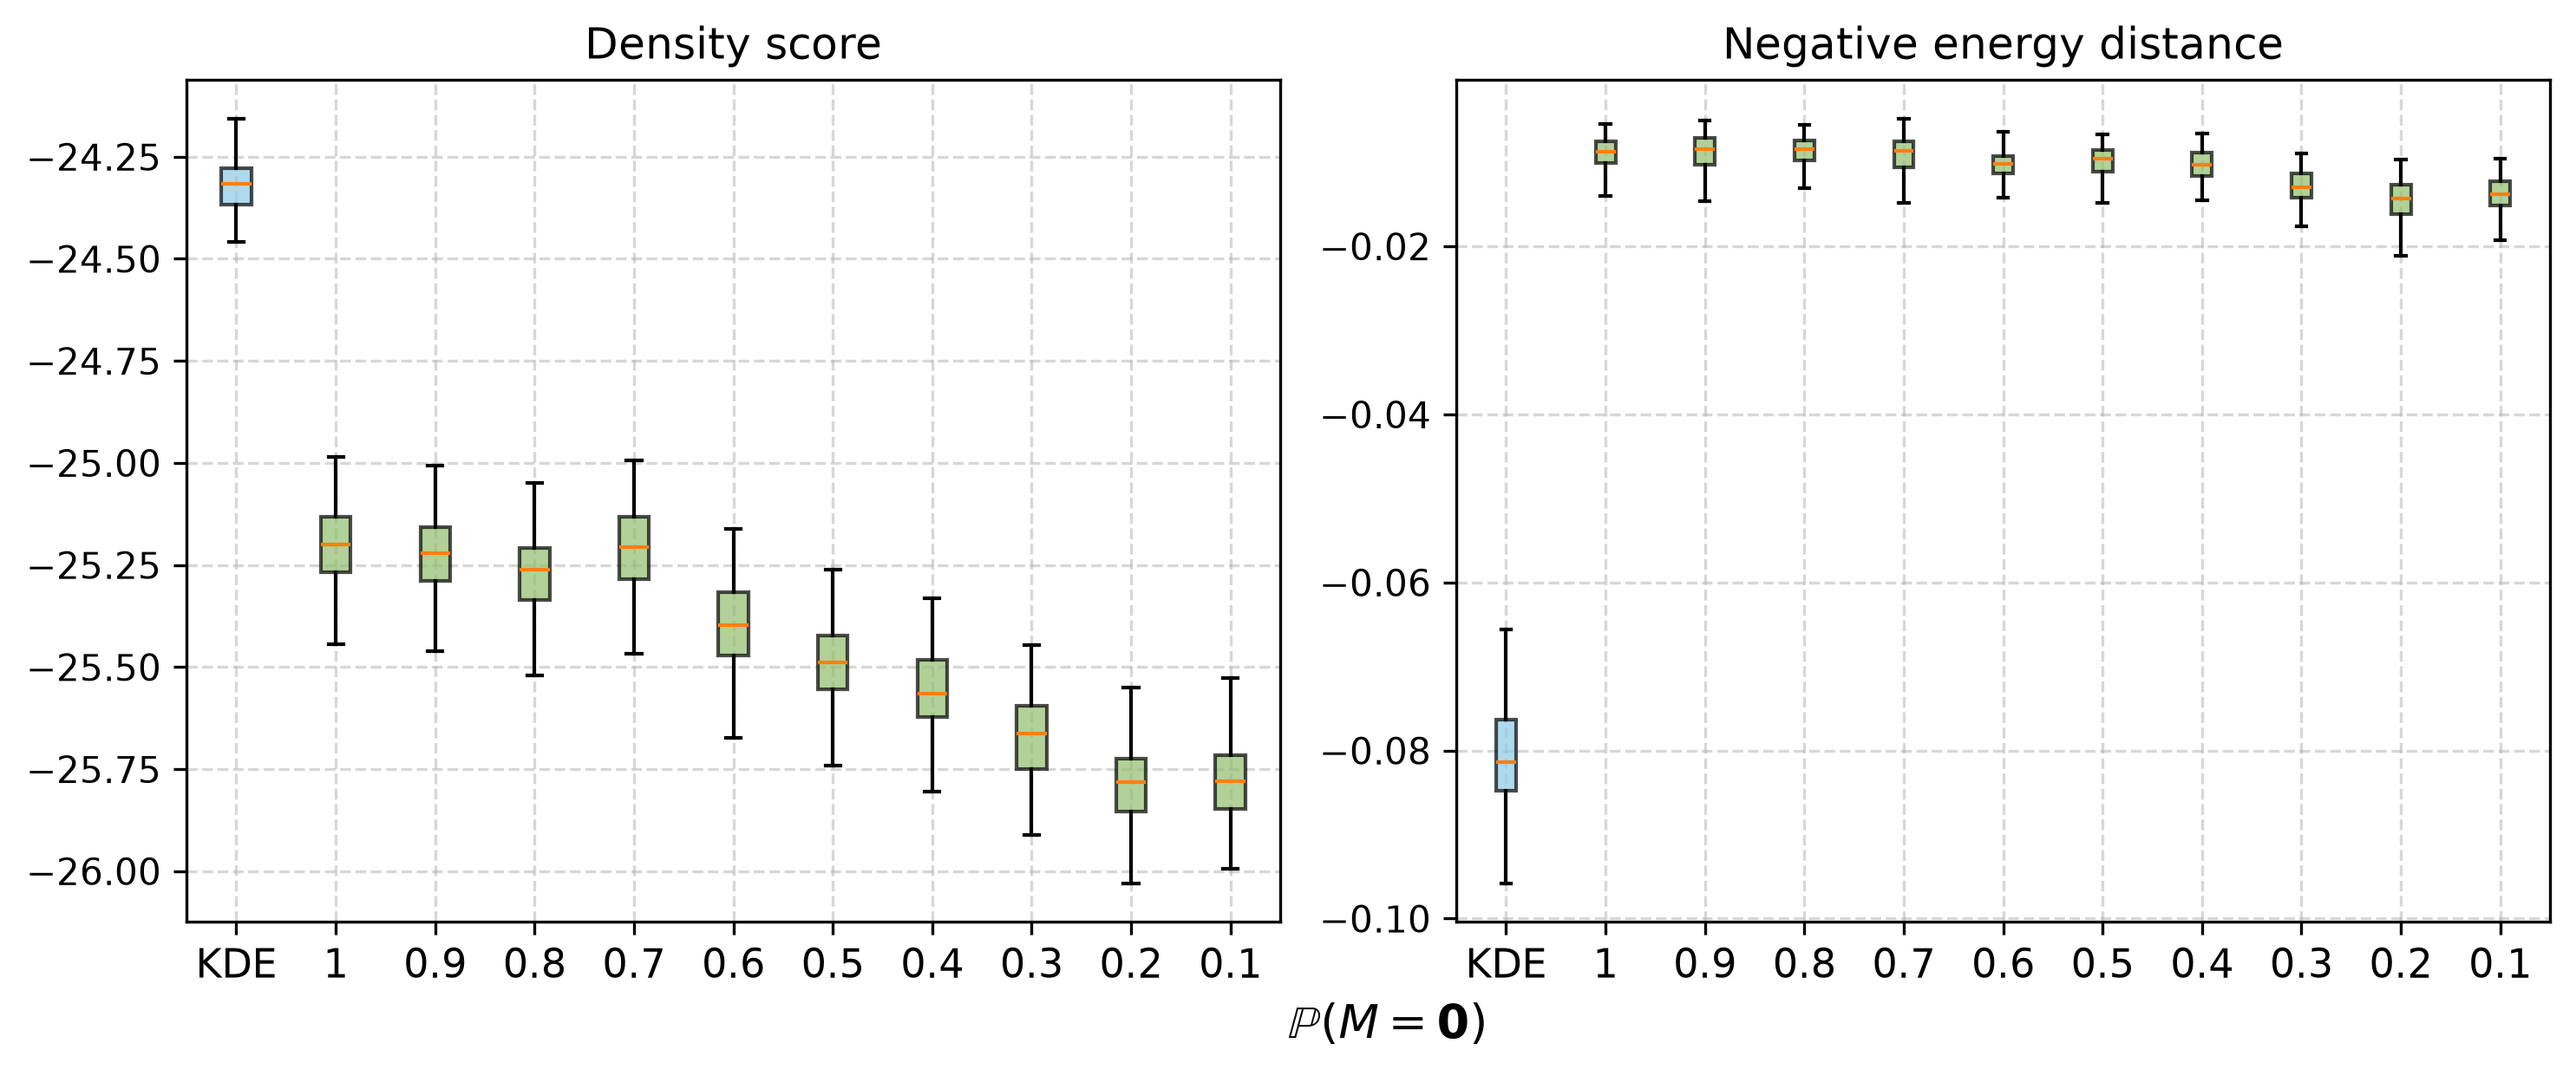
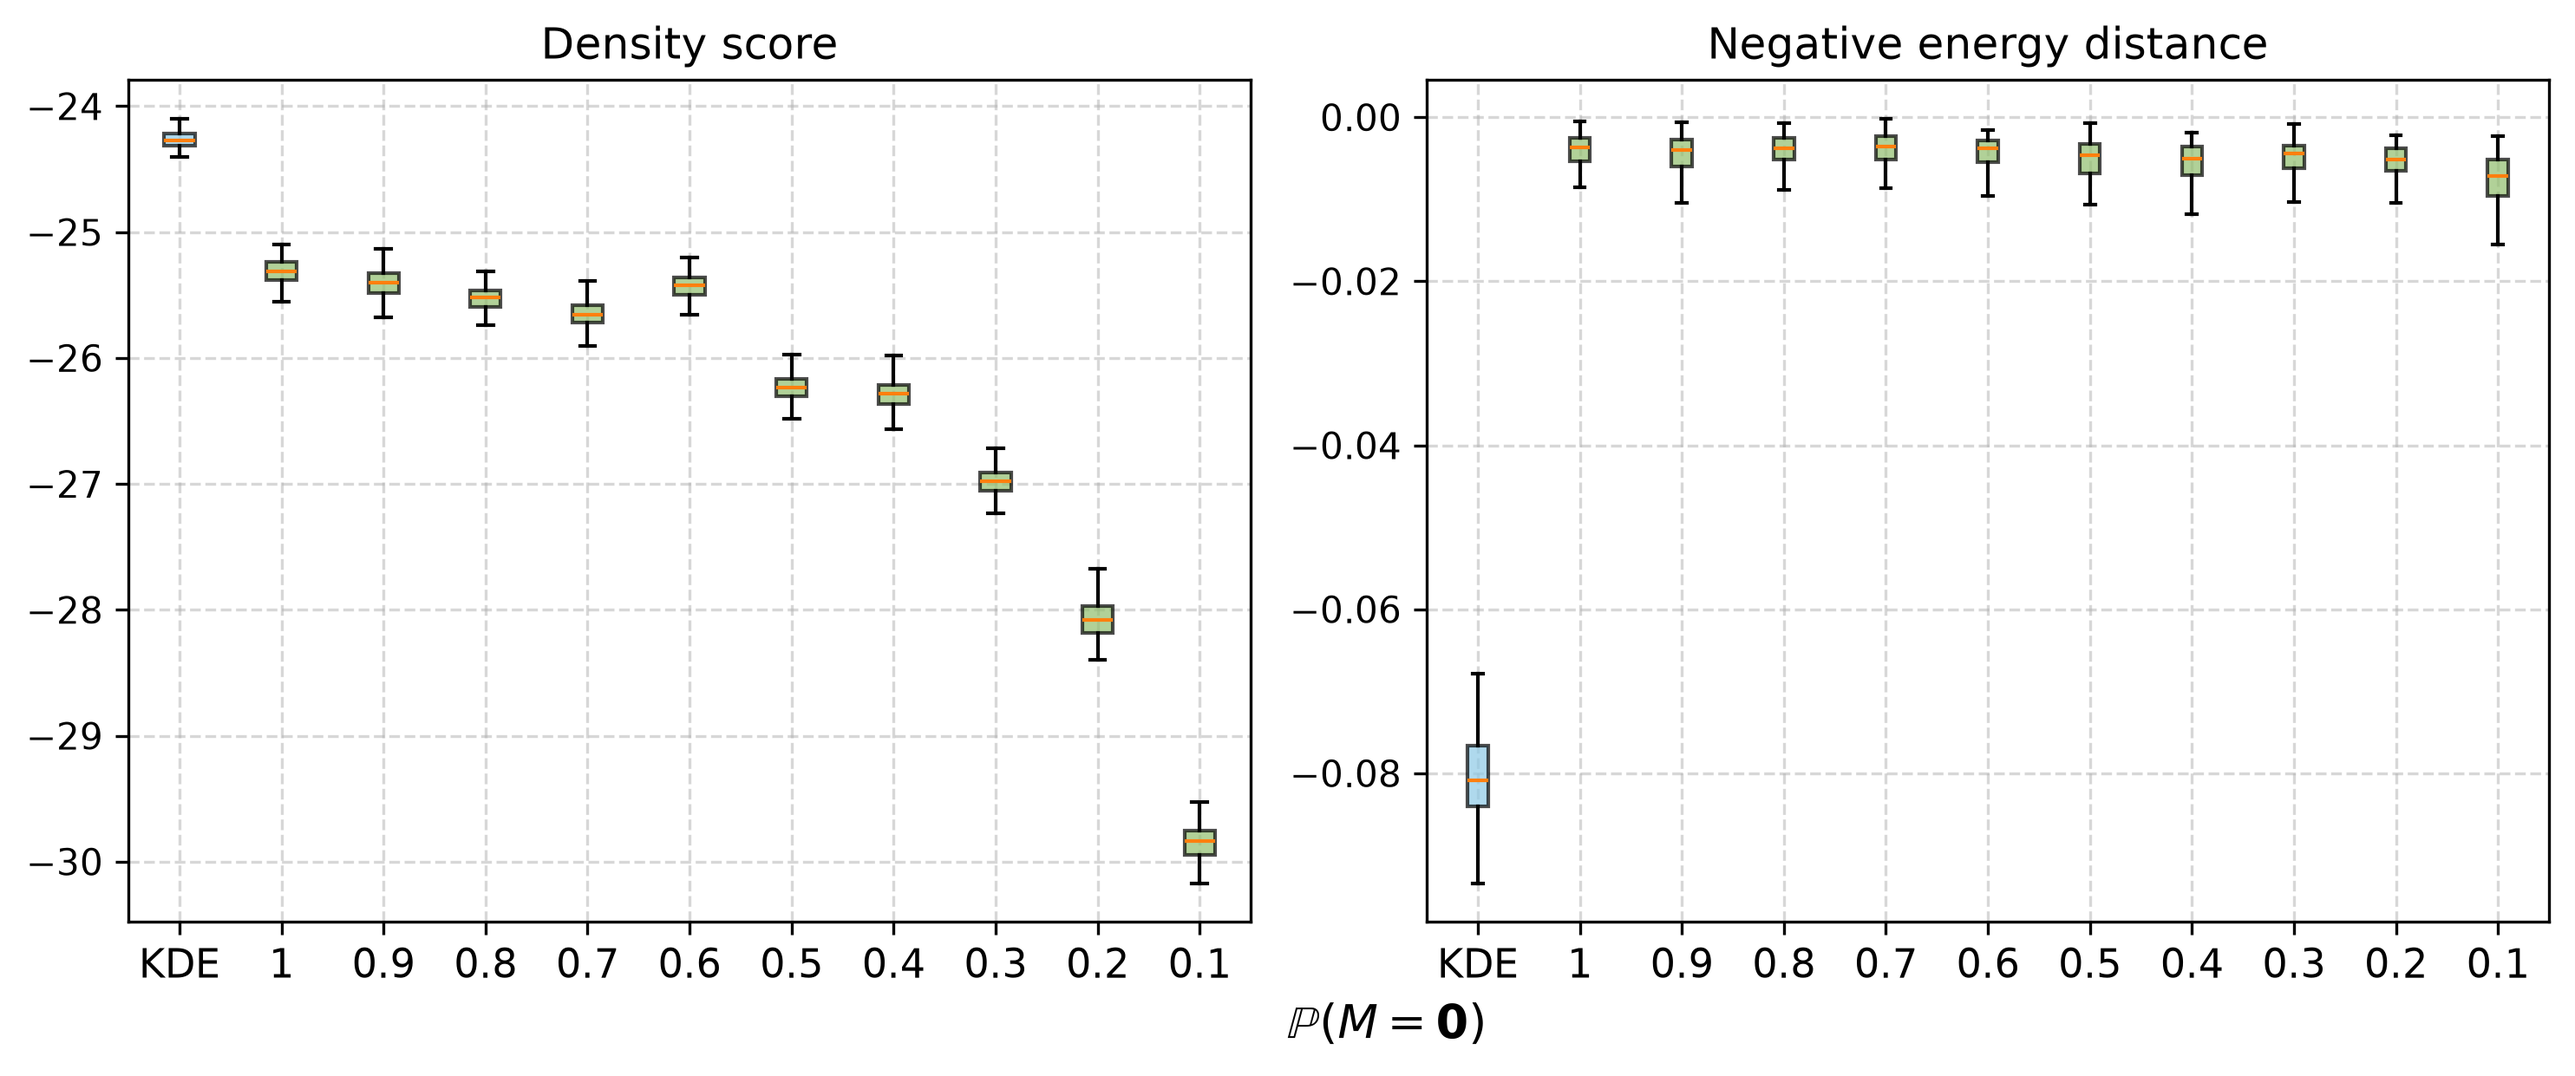
new results

diff --git a/src/gaussian_mixture.py b/src/gaussian_mixture.py
@@ -8,6 +8,7 @@ class SingleMixture:
         self,
         n_components,
         cov_type,
+        is_mis_penalize=False,
         max_iter=100,
         tol=1e-6,
         eps = 1e-6,
@@ -17,6 +18,7 @@ class SingleMixture:
     ):
         self.K = n_components
         self.cov_type = cov_type
+        self.is_mis_penalize = is_mis_penalize
         self.max_iter = max_iter
         self.tol = tol
         self.eps = eps
@@ -266,6 +268,7 @@ class GaussianMixtureMAR:
         k_range,
         criterion="bic",
         cov_type='uni_diag',
+        is_mis_penalize=False,
         max_iter=100,
         tol=1e-6,
         eps=1e-6,
@@ -278,6 +281,7 @@ class GaussianMixtureMAR:
         self.criterion = criterion
         self.n_init = n_init
         self.cov_type = cov_type
+        self.is_mis_penalize = is_mis_penalize
         self.max_iter = max_iter
         self.tol = tol
         self.eps = eps
@@ -303,6 +307,7 @@ class GaussianMixtureMAR:
 
     def aic(self, loglik, p):
         return -2 * loglik + 2 * p
+
     
     def bic(self, loglik, p, N):
         return -2 * loglik + p * math.log(N)
@@ -320,6 +325,7 @@ class GaussianMixtureMAR:
         model = SingleMixture(
             n_components=k,
             cov_type=self.cov_type,
+            is_mis_penalize=self.is_mis_penalize,
             max_iter=self.max_iter,
             tol=self.tol,
             eps=self.eps,
@@ -330,10 +336,16 @@ class GaussianMixtureMAR:
         model.fit(X, M)
 
         loglik = model.best_ll
+        # additional penalizing of the missingness to aic
+        mis_penal = 0
+        if self.is_mis_penalize:
+            mis_ratio = 1 - M.mean()
+            mis_penal = p * (-2 + math.log(mis_ratio) + math.log(N))
+
         score = (
             self.bic(loglik, p, N)
             if self.criterion == "bic"
-            else self.aic(loglik, p)
+            else self.aic(loglik, p) + mis_penal
         )
 
         self._k_cache[k] = (score, model, p)

diff --git a/src/run_experiments.py b/src/run_experiments.py
@@ -23,6 +23,7 @@ def run(
         crit='bic', # selection criterion of k
         n_inits=20, # multi initiations
         ct='diag', # diag, id, uni_diag, uni_id
+        is_mis_penalize=False,
         p_range=None, # 1) prob(fully observed); 2) prob(worst missingness)
         pc=None, # fixed prob(fully observed)
         var_complete=True # if varying prob(fully observed); 2) else varying prob(worst missingness)
@@ -78,13 +79,35 @@ def run(
         # induce missingness
         X0, M = ampute_mar(X, pp)
         X_filled = torch.nan_to_num(X0, nan=0.0)
-        gmm = GaussianMixtureMAR(
-            k_range=k_range, 
-            criterion=crit,
-            device='cpu', 
-            cov_type=ct, 
-            n_init=n_inits
-        )
+
+        if var_complete and crit == 'mix':
+            if  p >=0.6:
+                gmm = GaussianMixtureMAR(
+                    k_range=k_range, 
+                    criterion='aic',
+                    device='cpu', 
+                    cov_type=ct,
+                    is_mis_penalize=is_mis_penalize,
+                    n_init=n_inits
+                )
+            elif p < 0.6:
+                gmm = GaussianMixtureMAR(
+                            k_range=k_range, 
+                            criterion='bic',
+                            device='cpu', 
+                            cov_type=ct, 
+                            n_init=n_inits
+                        )
+
+        else:
+            gmm = GaussianMixtureMAR(
+                        k_range=k_range, 
+                        criterion=crit,
+                        device='cpu', 
+                        cov_type=ct, 
+                        n_init=n_inits
+                    )
+            
         # fit on missing data
         gmm.fit(X_filled, M)
         print('best k =', gmm.best_k)

diff --git a/main_simulation_part2.py b/main_simulation_part2.py
@@ -6,22 +6,21 @@ import torch
 
 #torch.manual_seed(42)
 
-#['Normal']#, 'gaussian_mixture', 
-dgms = ['Logistic']
+dgms = ['Normal', 'Logistic', 'gaussian_mixture']
 D = [20]
-tags = [dgm + '_d_' + str(d) for dgm in dgms for d in D]
 
 #---------- Configurations ----------
 k_range = (1, 100)
 
 k = 20
-alpha = 0.5
+alpha = 0.7
 
 N = 2000
 n_samples = 2000 # new samples
-n_inits=20 # number of inits for the EM - sklearn and our method
-crit = 'bic'
-ct = 'diag'
+n_inits=30 # number of inits for the EM - sklearn and our method
+crit = 'aic' # aic for p(M=0) >= 0.6, and bic for p(M=0) < 0.6
+ct = 'uni_diag'
+is_mis_penalize = True # discounted N or not in calculating bic score
 # pc = 0.5
 # pam_range = [0.05, 0.1, 0.2, 0.3, 0.4]
 pc_range = [0.9, 0.8, 0.7, 0.6, 0.5, 0.4, 0.3, 0.2, 0.1]
@@ -52,6 +51,7 @@ for dgm in dgms:
             crit=crit,
             n_inits=n_inits,
             ct=ct,
+            is_mis_penalize=is_mis_penalize,
             p_range=pc_range,
             pc=None, 
             var_complete=True
@@ -71,7 +71,7 @@ for dgm in dgms:
         #     var_complete=False
         #     )
 
-        path = dgm + '_d_' + str(d)
+        path = dgm + '_d_' + str(d) + '_N_' + str(N) + '_' + crit + '_' + ct + '_init_' + str(n_inits) + '_validN_' + str(is_mis_penalize)
 
         plot1(dss, -edss, pc_range, save_to_path=path, legend=False)
 
